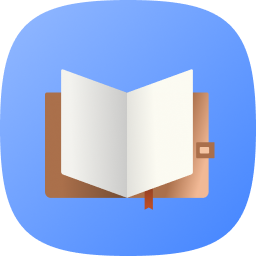
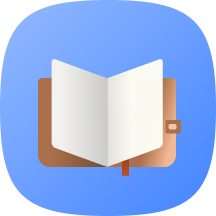
doc: update mockups

diff --git a/README.md b/README.md
@@ -22,14 +22,12 @@
 </p>
 
 <p align="center">
-  <img src="assets/screenshots/home1.png" width="23%" style="border-radius:12px; margin: 1px;">
-  <img src="assets/screenshots/editor1.png" width="23%" style="border-radius:12px; margin: 1px;">
-  <img src="assets/screenshots/editor3.png" width="23%" style="border-radius:12px; margin: 1px;">
-  <img src="assets/screenshots/editor4.png" width="23%" style="border-radius:12px; margin: 1px;">
-  <img src="assets/screenshots/timeline1.png" width="23%" style="border-radius:12px; margin: 1px;">
-  <img src="assets/screenshots/timeline4.png" width="23%" style="border-radius:12px; margin: 1px;">
-  <img src="assets/screenshots/settings1.png" width="23%" style="border-radius:12px; margin: 1px;">
-  <img src="assets/screenshots/sync1.png" width="23%" style="border-radius:12px; margin: 1px;">
+  <img src="assets/screenshots/editor.png" width="32%" style="border-radius:12px; margin: 1px;">
+  <img src="assets/screenshots/timeline-calendar.png" width="32%" style="border-radius:12px; margin: 1px;">
+  <img src="assets/screenshots/home.png" width="32%" style="border-radius:12px; margin: 1px;">
+  <img src="assets/screenshots/timeline-map.png" width="32%" style="border-radius:12px; margin: 1px;">
+  <img src="assets/screenshots/timeline-music.png" width="32%" style="border-radius:12px; margin: 1px;">
+  <img src="assets/screenshots/cloud-sync.png" width="32%" style="border-radius:12px; margin: 1px;">
 </p>
 
 ## Core Features